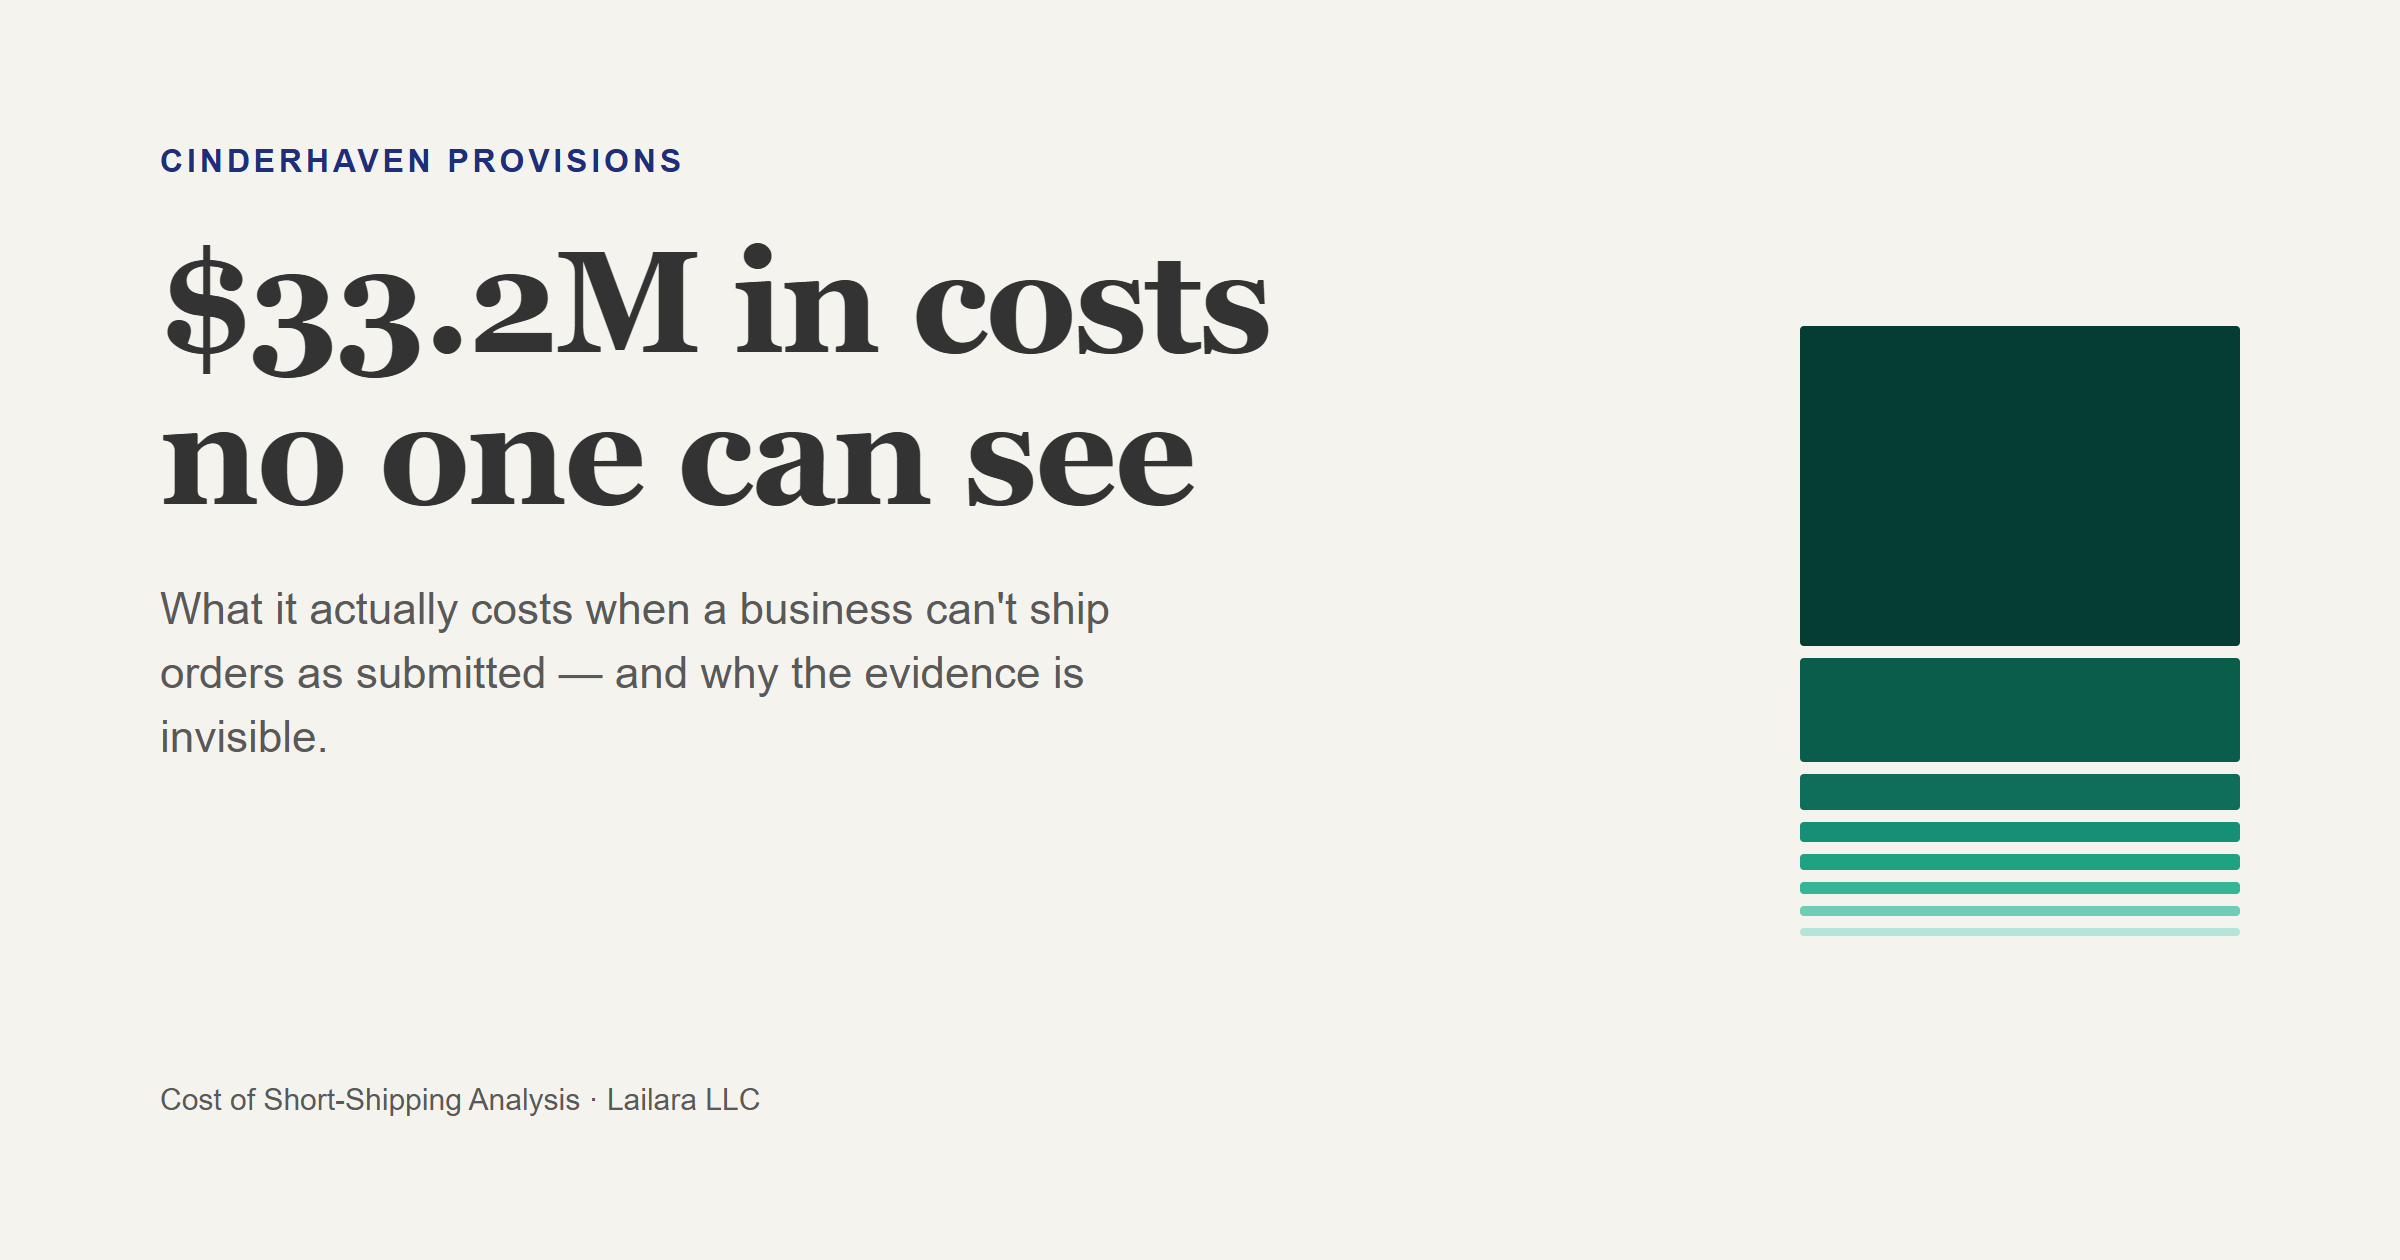
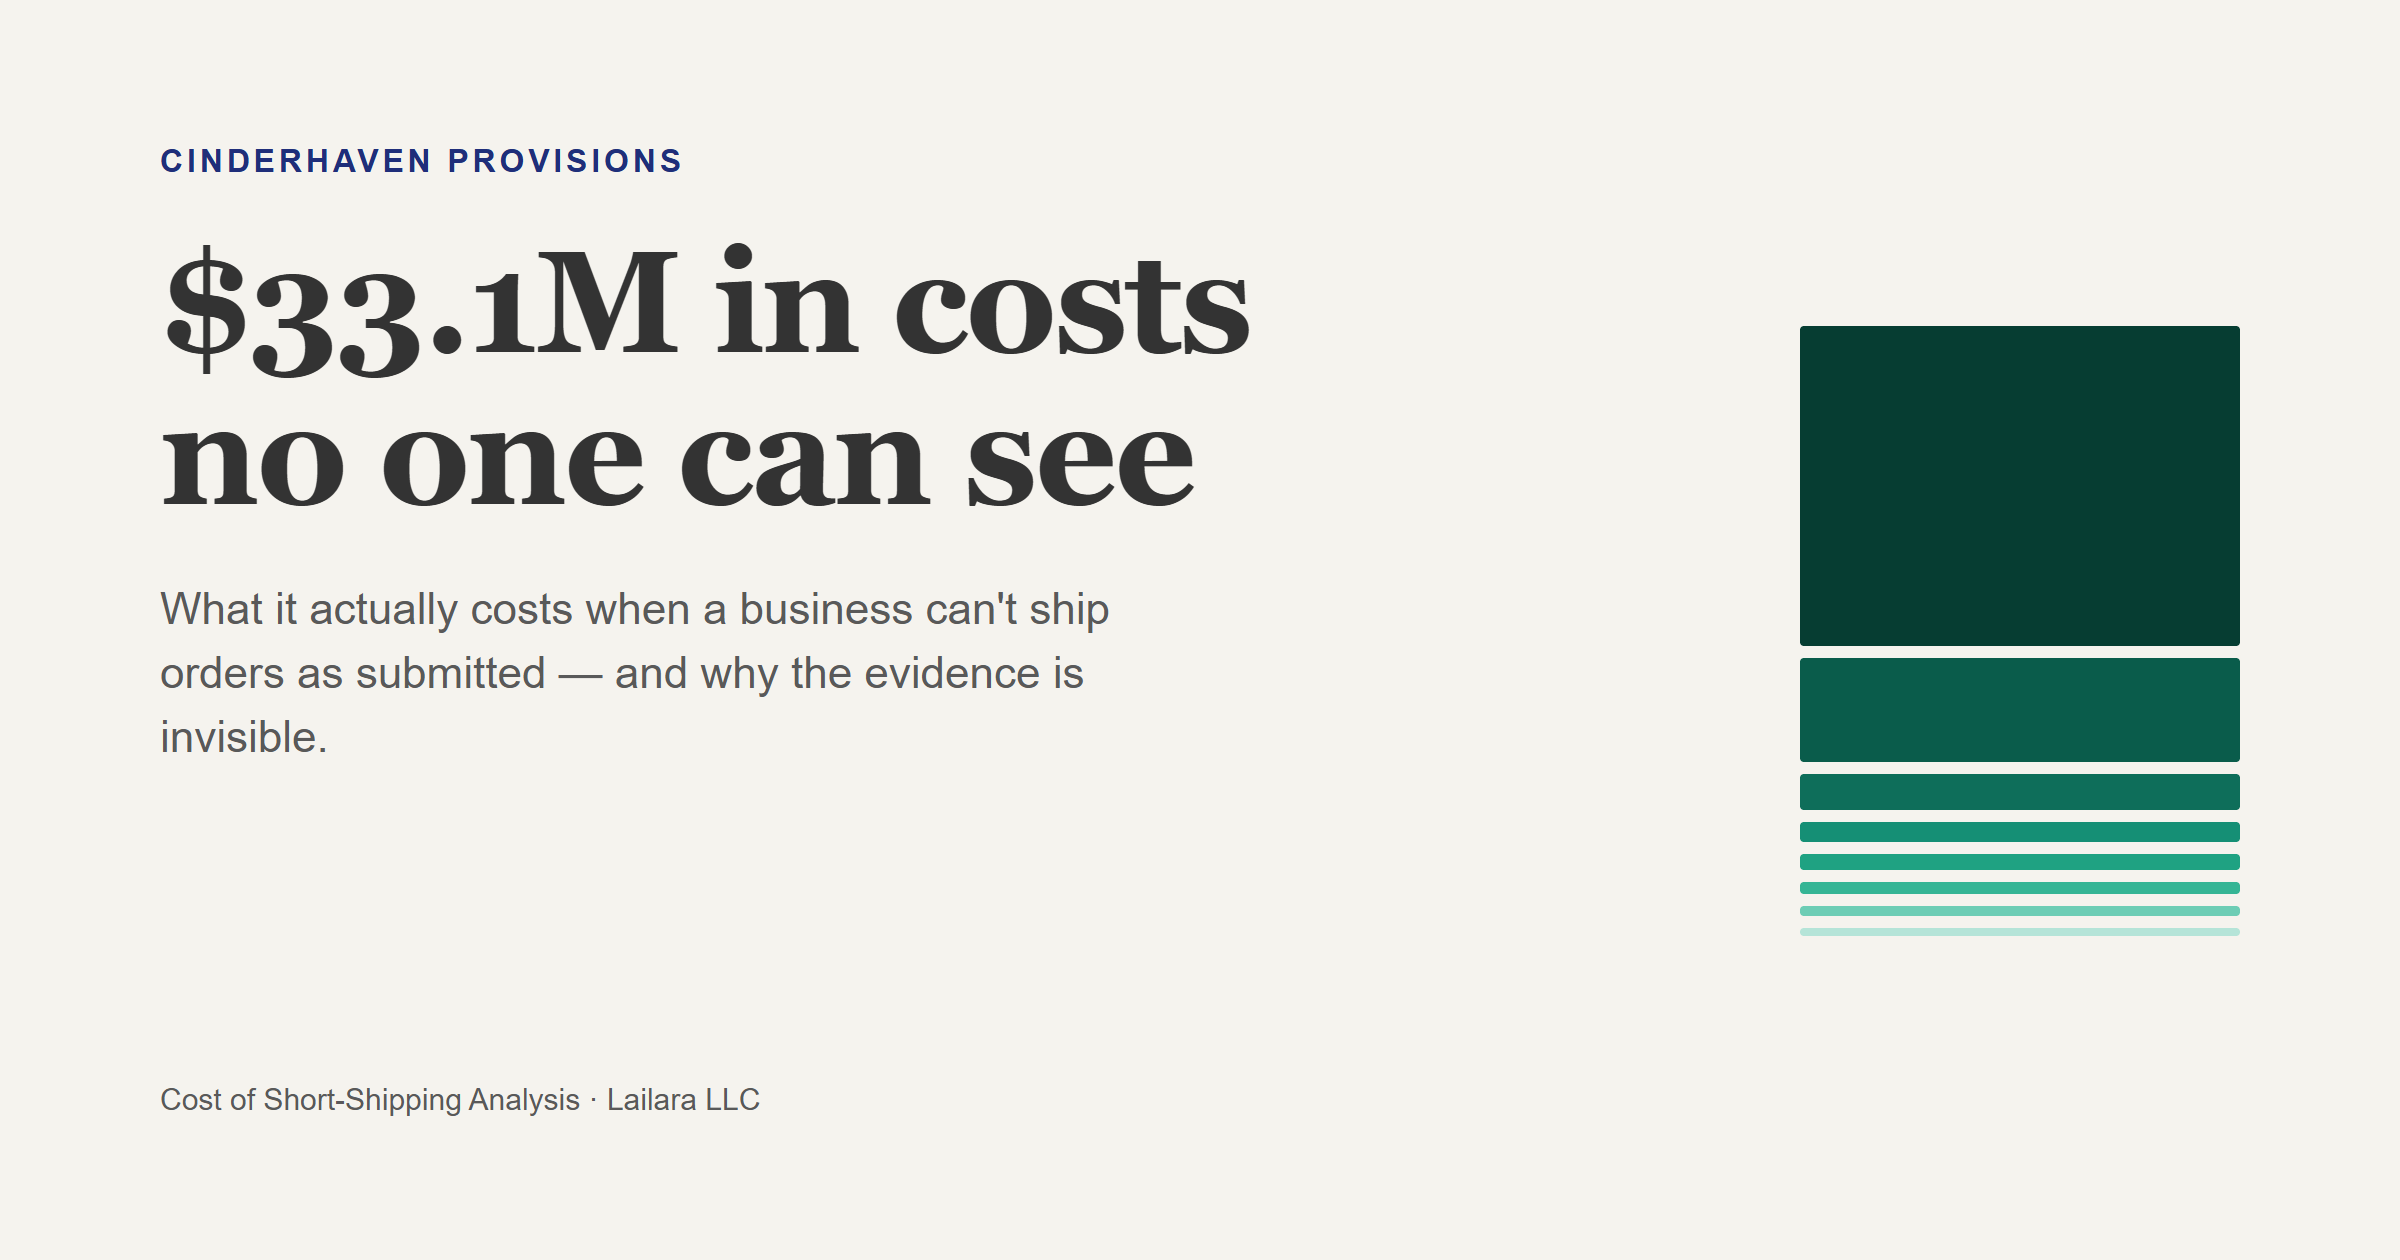
fix: align OG meta, card, and README to $33.1M (matches app display)
validation.json total ($33,128,550.93) rounds to $33.1M via
Intl.NumberFormat compact, not $33.2M. OG tags, OG card image,
and README headline updated to match.

Changed region(s): [[0.1875, 0.1857, 0.5312, 0.2786]]

diff --git a/web/index.html b/web/index.html
@@ -6,12 +6,12 @@
     <meta name="viewport" content="width=device-width, initial-scale=1.0" />
     <meta name="description" content="What does it actually cost when a business can't fulfill orders as submitted? An interactive analysis of short-shipping across 8 cost dimensions for a ~$25M specialty food brand." />
     <meta property="og:title" content="The True Cost of Short-Shipping" />
-    <meta property="og:description" content="$33.2M in invisible costs across 8 dimensions — lost revenue, fines, deauthorization, and more. Interactive analysis by Lailara LLC." />
+    <meta property="og:description" content="$33.1M in invisible costs across 8 dimensions — lost revenue, fines, deauthorization, and more. Interactive analysis by Lailara LLC." />
     <meta property="og:type" content="website" />
     <meta property="og:image" content="https://short-ship-cost.msshawnp.workers.dev/og-card.png" />
     <meta name="twitter:card" content="summary_large_image" />
     <meta name="twitter:title" content="The True Cost of Short-Shipping" />
-    <meta name="twitter:description" content="$33.2M in invisible costs across 8 dimensions. Interactive analysis by Lailara LLC." />
+    <meta name="twitter:description" content="$33.1M in invisible costs across 8 dimensions. Interactive analysis by Lailara LLC." />
     <meta name="twitter:image" content="https://short-ship-cost.msshawnp.workers.dev/og-card.png" />
     <title>Cost of Short-Shipping &mdash; Cinderhaven Provisions</title>
   </head>

diff --git a/README.md b/README.md
@@ -36,7 +36,7 @@ dimensions:
 | Distributor returns | Unsold promo product returned or written off |
 | Triage labour | Human time spent editing every order |
 
-The headline: **$33.2M in total short-shipping costs on $74.2M
+The headline: **$33.1M in total short-shipping costs on $74.2M
 shipped revenue** — 44.7% of the topline. The business thinks it
 ships $25M a year. The demand it cannot see is nearly $34M annually.
 
